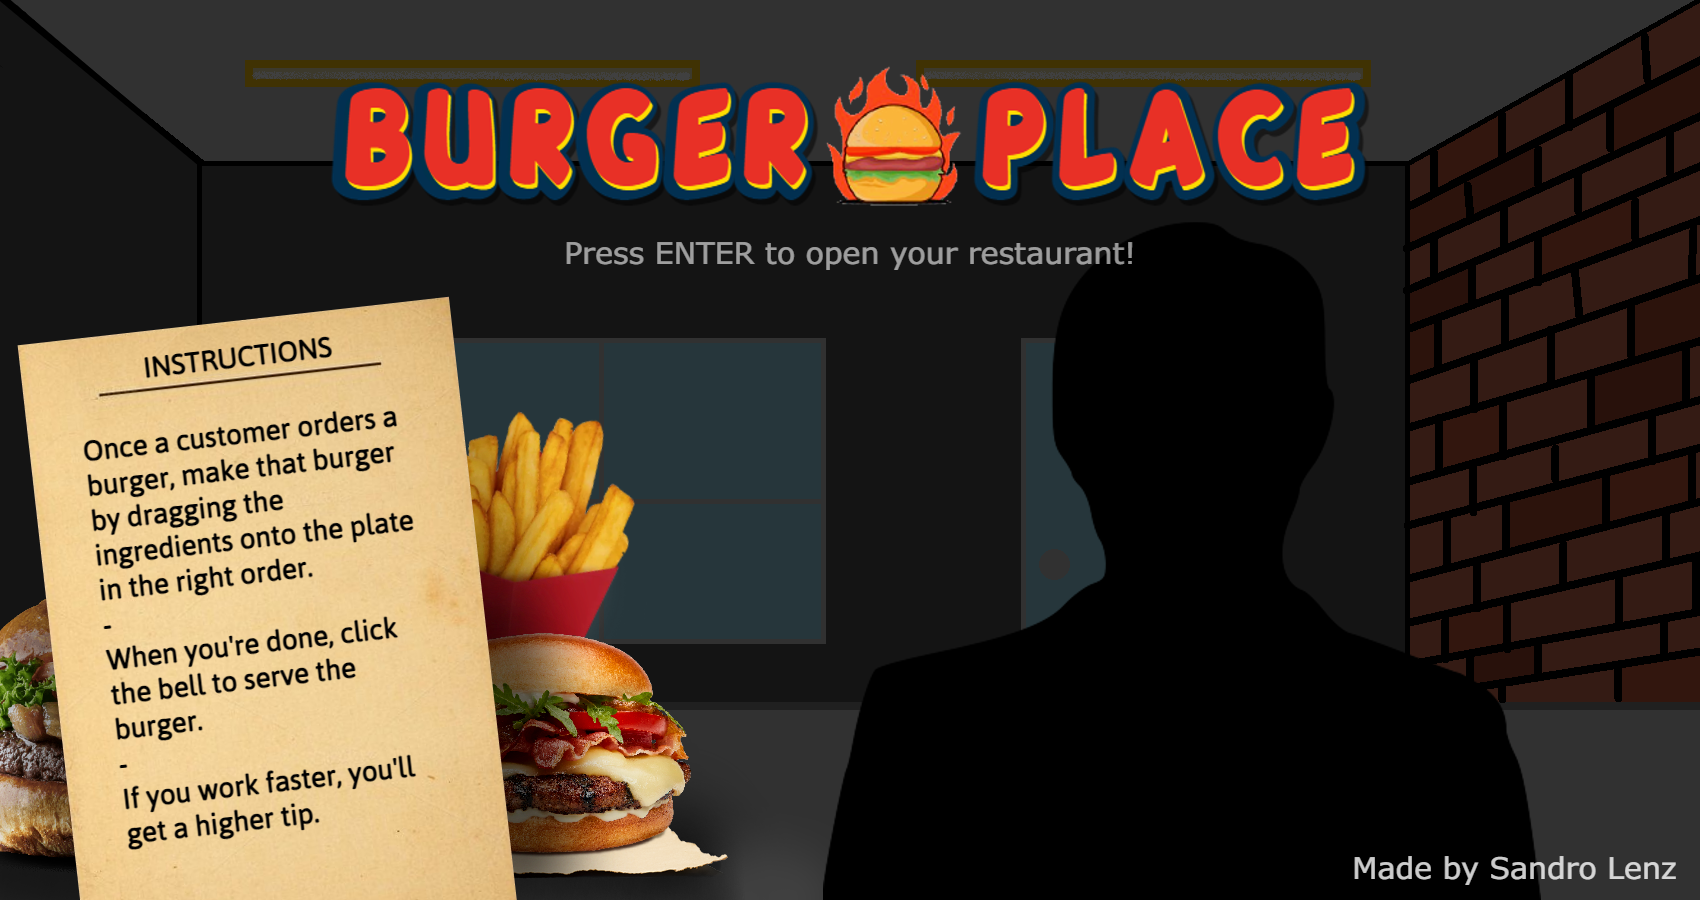
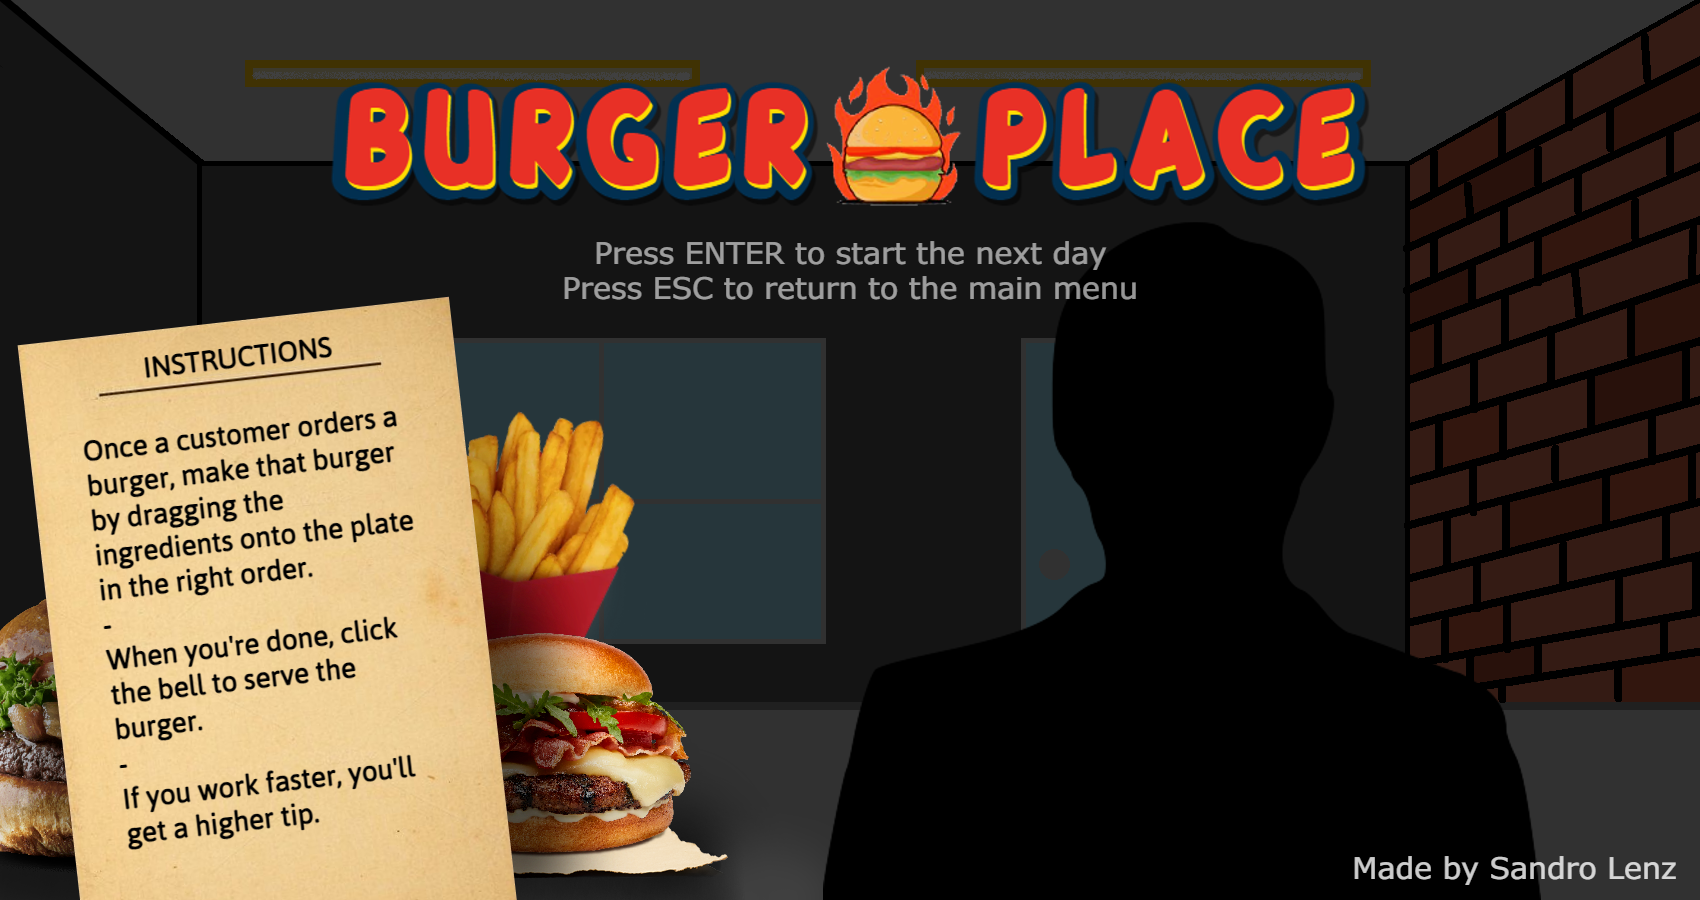
update endscreen

Changed region(s): [[0.3118, 0.2489, 0.6859, 0.3422]]

diff --git a/sl-main/doc/index.html b/sl-main/doc/index.html
@@ -2,14 +2,14 @@
 <!-- NewPage -->
 <html lang="de">
 <head>
-<!-- Generated by javadoc (11.0.14.1) on Mon Jan 30 10:54:31 CET 2023 -->
+<!-- Generated by javadoc (11.0.14.1) on Mon Jan 30 21:38:29 CET 2023 -->
 <title>Generated Documentation (Untitled)</title>
 <meta http-equiv="Content-Type" content="text/html; charset=UTF-8">
-<script type="text/javascript">window.location.replace('Customer.html')</script>
+<script type="text/javascript">window.location.replace('EndScreen.html')</script>
 <noscript>
-<meta http-equiv="Refresh" content="0;Customer.html">
+<meta http-equiv="Refresh" content="0;EndScreen.html">
 </noscript>
-<link rel="canonical" href="Customer.html">
+<link rel="canonical" href="EndScreen.html">
 <link rel="stylesheet" type="text/css" href="stylesheet.css" title="Style">
 </head>
 <body>
@@ -17,7 +17,7 @@
 <noscript>
 <p>JavaScript is disabled on your browser.</p>
 </noscript>
-<p><a href="Customer.html">Customer.html</a></p>
+<p><a href="EndScreen.html">EndScreen.html</a></p>
 </main>
 </body>
 </html>

diff --git a/sl-main/doc/package-summary.html b/sl-main/doc/package-summary.html
@@ -2,7 +2,7 @@
 <!-- NewPage -->
 <html lang="de">
 <head>
-<!-- Generated by javadoc (11.0.14.1) on Mon Jan 30 10:54:31 CET 2023 -->
+<!-- Generated by javadoc (11.0.14.1) on Mon Jan 30 21:38:29 CET 2023 -->
 <title>&lt;Unnamed&gt;</title>
 <meta http-equiv="Content-Type" content="text/html; charset=UTF-8">
 <meta name="dc.created" content="2023-01-30">
@@ -38,9 +38,9 @@
 </tr>
 <tbody>
 <tr class="altColor">
-<th class="colFirst" scope="row"><a href="Customer.html" title="class in &lt;Unnamed&gt;">Customer</a></th>
+<th class="colFirst" scope="row"><a href="EndScreen.html" title="class in &lt;Unnamed&gt;">EndScreen</a></th>
 <td class="colLast">
-<div class="block">The customer.</div>
+<div class="block">Write a description of class EndScreen here.</div>
 </td>
 </tr>
 </tbody>

diff --git a/sl-main/doc/EndScreen.html b/sl-main/doc/EndScreen.html
@@ -2,7 +2,7 @@
 <!-- NewPage -->
 <html lang="de">
 <head>
-<!-- Generated by javadoc (11.0.14.1) on Mon Jan 30 10:54:31 CET 2023 -->
+<!-- Generated by javadoc (11.0.14.1) on Mon Jan 30 21:38:29 CET 2023 -->
 <title>EndScreen</title>
 <meta http-equiv="Content-Type" content="text/html; charset=UTF-8">
 <meta name="dc.created" content="2023-01-30">
@@ -57,9 +57,9 @@ extends greenfoot.World</pre>
 <div class="block">Write a description of class EndScreen here.</div>
 <dl>
 <dt><span class="simpleTagLabel">Version:</span></dt>
-<dd>(a version number or a date)</dd>
+<dd>2023-01-30</dd>
 <dt><span class="simpleTagLabel">Author:</span></dt>
-<dd>(your name)</dd>
+<dd>Sandro Lenz</dd>
 </dl>
 </li>
 </ul>

diff --git a/sl-main/doc/allclasses.html b/sl-main/doc/allclasses.html
@@ -2,7 +2,7 @@
 <!-- NewPage -->
 <html lang="de">
 <head>
-<!-- Generated by javadoc (11.0.14.1) on Mon Jan 30 10:54:31 CET 2023 -->
+<!-- Generated by javadoc (11.0.14.1) on Mon Jan 30 21:38:29 CET 2023 -->
 <title>All Classes</title>
 <meta http-equiv="Content-Type" content="text/html; charset=UTF-8">
 <meta name="dc.created" content="2023-01-30">
@@ -13,7 +13,7 @@
 <h1 class="bar">All&nbsp;Classes</h1>
 <main role="main" class="indexContainer">
 <ul>
-<li><a href="Customer.html" title="class in &lt;Unnamed&gt;">Customer</a></li>
+<li><a href="EndScreen.html" title="class in &lt;Unnamed&gt;">EndScreen</a></li>
 </ul>
 </main>
 </body>

diff --git a/sl-main/doc/constant-values.html b/sl-main/doc/constant-values.html
@@ -2,7 +2,7 @@
 <!-- NewPage -->
 <html lang="de">
 <head>
-<!-- Generated by javadoc (11.0.14.1) on Mon Jan 30 10:54:31 CET 2023 -->
+<!-- Generated by javadoc (11.0.14.1) on Mon Jan 30 21:38:29 CET 2023 -->
 <title>Constant Field Values</title>
 <meta http-equiv="Content-Type" content="text/html; charset=UTF-8">
 <meta name="dc.created" content="2023-01-30">

diff --git a/sl-main/EndScreen.java b/sl-main/EndScreen.java
@@ -3,8 +3,8 @@ import greenfoot.*;  // (World, Actor, GreenfootImage, Greenfoot and MouseInfo)
 /**
  * Write a description of class EndScreen here.
  * 
- * @author (your name) 
- * @version (a version number or a date)
+ * @author Sandro Lenz
+ * @version 2023-01-30
  */
 public class EndScreen extends World
 {
@@ -30,13 +30,13 @@ public class EndScreen extends World
      * Check if Enter or R key is pressed and update the world on pressing.
      */
     public void act() {
-        // Enter - Back to the main screen
-        if(Greenfoot.isKeyDown("enter")) {
+        // Escape - Back to the main screen
+        if(Greenfoot.isKeyDown("escape")) {
             Greenfoot.setWorld(new MainMenu());
         }
-        // R - Play another day
-        if(Greenfoot.isKeyDown("r")) {
-            Greenfoot.setWorld(new Restaurant(money, customerCount, 5000));
+        // Enter - Play another day
+        if(Greenfoot.isKeyDown("enter")) {
+            Greenfoot.setWorld(new Restaurant(money, customerCount, 3000));
         }
     }
 }

diff --git a/sl-main/MainMenu.java b/sl-main/MainMenu.java
@@ -23,7 +23,7 @@ public class MainMenu extends World
      */
     public void act() {
         if(Greenfoot.isKeyDown("enter")) {
-            Greenfoot.setWorld(new Restaurant(10, 1, 5000));
+            Greenfoot.setWorld(new Restaurant(10, 1, 3000));
         }
     }
 }

diff --git a/sl-main/Restaurant.java b/sl-main/Restaurant.java
@@ -37,7 +37,6 @@ public class Restaurant extends World
      */
     public void act() {
         daylength = daylength - 1;
-        System.out.println(daylength);
         if (daylength == 0) {
             endGame(money, customerCount, timeToServeAvg);
         }
